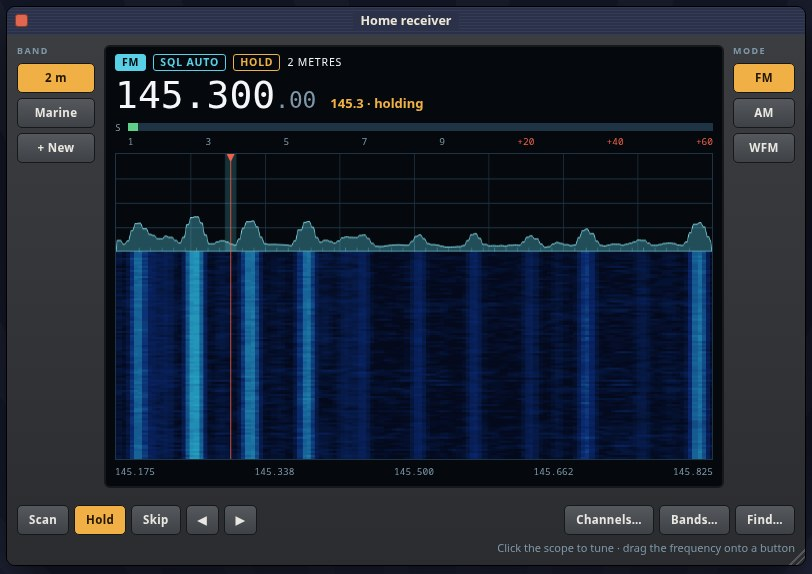
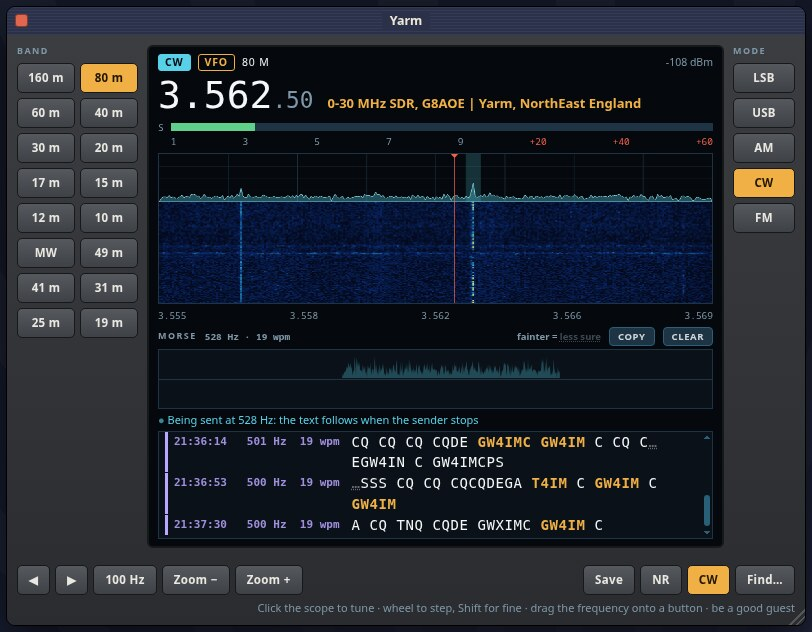
Morse reader: the log keeps inside the screen; the rig's picture, with Morse being read
At the rig window's usual size the log ran a few pixels past the bottom of
the screen. The window opens a little taller now, and the log gives way
(down to two lines) before anything spills.

diff --git a/app/sleepradiopi/web/desktop.html b/app/sleepradiopi/web/desktop.html
@@ -184,7 +184,7 @@
   .rig .rk { font-family: var(--display); font-size: 11.5px; font-weight: 600; letter-spacing: .03em; color: #e9e7e1; background: linear-gradient(180deg, #55585c, #3e4145); border: 1px solid #17181a; border-radius: 5px; padding: 6px 4px; cursor: pointer; min-width: 0; overflow: hidden; text-overflow: ellipsis; white-space: nowrap; }
   .rig .rk.on { background: #f0b045; color: #231703; }
   .rig .rk:focus-visible { outline: 2px solid #58d0e8; outline-offset: 1px; }
-  .rig .tft { background: #05090d; color: #f4f6f7; border-radius: 6px; border: 2px solid #17181a; padding: 7px 9px; display: flex; flex-direction: column; gap: 5px; min-width: 0; min-height: 0; }
+  .rig .tft { background: #05090d; color: #f4f6f7; border-radius: 6px; border: 2px solid #17181a; padding: 7px 9px; display: flex; flex-direction: column; gap: 5px; min-width: 0; min-height: 0; overflow: hidden; }
   .rig .rtags { display: flex; flex-wrap: wrap; gap: 5px 7px; align-items: center; font-family: var(--display); font-size: 10.5px; letter-spacing: .08em; }
   .rig .rtag { border: 1px solid #58d0e8; color: #58d0e8; border-radius: 3px; padding: 0 6px; font-weight: 600; }
   .rig .rtag.fill { background: #58d0e8; color: #05090d; }
@@ -203,7 +203,8 @@
   .rig .rticks span:nth-child(n+6) { color: #f0604a; }
   .rig canvas { width: 100%; flex: 1; min-height: 120px; display: block; border: 1px solid #1e3445; cursor: crosshair; }
   .rig .rscale { display: flex; justify-content: space-between; font-size: 9.5px; color: #7f97a8; font-family: ui-monospace, Menlo, Consolas, monospace; }
-  .rig .rcw { display: grid; gap: 3px; min-width: 0; }
+  .rig .rcw { display: flex; flex-direction: column; gap: 3px; min-width: 0; min-height: 0; flex: 0 1 auto; }
+  .rig .rcw[hidden] { display: none; }
   .rig .rcw h4 { display: flex; gap: 8px; align-items: center; }
   .rig .rcw h4 span { letter-spacing: 0; text-transform: none; font-family: ui-monospace, Menlo, Consolas, monospace; font-size: 9.5px; }
   .rig .rcw h4 .rkey { margin-left: auto; font-family: system-ui, sans-serif; }
@@ -212,7 +213,7 @@
   .rig .rcw h4 button:hover { background: #2a5f78; }
   .rig .rcw canvas { flex: none; min-height: 0; height: 60px; cursor: default; background: #0a1118; }
   /* the log: a line an over, the newest at the bottom, the older ones scrolled back to */
-  .rig .rcopy { font-family: ui-monospace, "DejaVu Sans Mono", Menlo, Consolas, monospace; font-size: 14px; line-height: 1.45; height: 7.25em; overflow-y: auto; background: #0a1118; border: 1px solid #1e3445; padding: 2px 6px; box-sizing: content-box; scrollbar-width: thin; scrollbar-color: #2a5f78 transparent; }
+  .rig .rcopy { font-family: ui-monospace, "DejaVu Sans Mono", Menlo, Consolas, monospace; font-size: 14px; line-height: 1.45; flex: 0 1 7.25em; min-height: 2.9em; overflow-y: auto; background: #0a1118; border: 1px solid #1e3445; padding: 2px 6px; box-sizing: content-box; scrollbar-width: thin; scrollbar-color: #2a5f78 transparent; }
   .rig .rline { display: grid; grid-template-columns: auto minmax(0, 1fr); gap: 12px; border-left: 3px solid var(--hue); padding-left: 6px; margin: 1px 0; }
   .rig .rline .rwho { white-space: pre; font-size: 11px; color: var(--hue); opacity: .85; line-height: 1.85; }
   .rig .rline .rtext { letter-spacing: .04em; overflow-wrap: anywhere; color: #f4f6f7; }
@@ -221,7 +222,7 @@
   .rig .rcopy .call { color: #f0b045; font-weight: 700; cursor: copy; }
   .rig .rcopy .call:hover { text-decoration: underline; }
   .rig .rcopy .rnone { color: #7f97a8; font-family: system-ui, sans-serif; font-size: 12px; letter-spacing: 0; }
-  .rig .rnow { height: 16px; font: 11px/16px system-ui, sans-serif; color: #58d0e8; overflow: hidden; white-space: nowrap; text-overflow: ellipsis; opacity: 0; transition: opacity .25s; }
+  .rig .rnow { flex: none; height: 16px; font: 11px/16px system-ui, sans-serif; color: #58d0e8; overflow: hidden; white-space: nowrap; text-overflow: ellipsis; opacity: 0; transition: opacity .25s; }
   .rig .rnow.on { opacity: 1; }
   .rig .rnow::before { content: "● "; animation: rnow 1s steps(2) infinite; }
   @keyframes rnow { 50% { opacity: .25; } }
@@ -1752,7 +1753,7 @@ async function open(id) {
   if (had) { had.z = ++zTop; drawDesk(); if (o.loaded) refreshOpen(); return; }
   const d = $("desk"), n = W.length;
   const rig = o.kind === "rx", big = o.kind === "programme" || o.kind === "schedule", page = (o.kind === "panel" && (o.page || UI[o.key])) || ["note", "person", "voice", "list"].includes(o.kind), wide = ["album", "playlist", "podcast", "button"].includes(o.kind);
-  const w = Math.min(d.clientWidth - 40, rig ? 800 : big ? 780 : page ? 560 : wide ? 480 : 560), h = Math.min(d.clientHeight - 40, rig ? 560 : big ? 460 : page ? 620 : 420);
+  const w = Math.min(d.clientWidth - 40, rig ? 800 : big ? 780 : page ? 560 : wide ? 480 : 560), h = Math.min(d.clientHeight - 40, rig ? 620 : big ? 460 : page ? 620 : 420);
   const win = { id, x: Math.max(8, Math.min(250 + n * 28, d.clientWidth - w - 10)), y: Math.max(8, Math.min(24 + n * 26, d.clientHeight - h - 10)), w, h, z: ++zTop, blk: 0, loading: false };
   const mine = geom[id] || (rig ? null : geom["kind:" + o.kind]);   // the size (and place) you gave it, or its kind, last time
   if (mine) {

diff --git a/README.md b/README.md
@@ -259,7 +259,7 @@ Actions, Sleep timer and Radio folders open:
   once, so there's scan, hold and skip; an internet receiver is tuned where
   it is, through the one connection the radio holds to it.
 
-  ![The rig: a receiver's window, with its waterfall](docs/rig.jpg)
+  ![The rig: a receiver's window, with its waterfall and, under it, Morse being read off the air](docs/rig.jpg)
 - **Morse, read as text.** The *CW* key in a receiver's window has the radio
   read the Morse in what that receiver is playing: a paper tape of the dots
   and dashes with each letter under its own, and under it a log of what was
